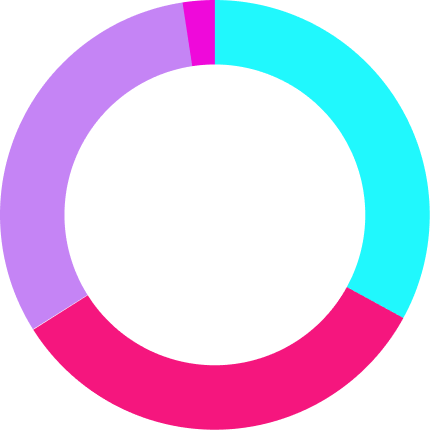
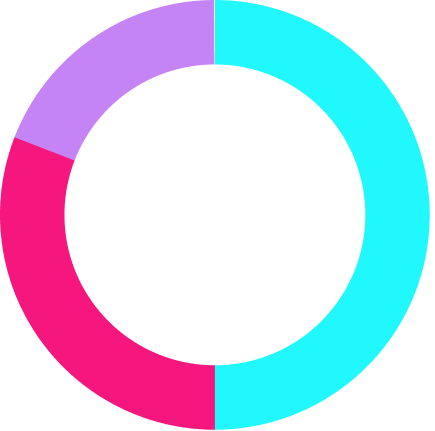
update

diff --git a/src/components/Home.js b/src/components/Home.js
@@ -15,6 +15,7 @@ import circle_2 from '../assets/circle_2.png';
 import circle_1 from '../assets/circle_1.png';
 import shibai from '../assets/shibai.png';
 import vector from '../assets/vector.svg';
+import token from '../assets/token.png';
 import Particle from './Particle';
 
 
@@ -255,12 +256,16 @@ export default function Home() {
                     <div className="lg:flex items-center justify-center gap-20 mt-12">
                         <div className='lg:w-1/2'>
 
-                            <svg xmlnsSvg="http://www.w3.org/2000/svg" xmlnsDoc="http://www.w3.org/1999/xlink"
+                            {/* <svg xmlns="http://www.w3.org/2000/svg"
                                 width="300px" height="400px" viewBox="0 0 130 130" >
 
-                                <circle class="crc1" transform="rotate(-90 70 70)" cx="70" cy="70" r="50"> </circle>
+                                <circle className="crc1" transform="rotate(-90 70 70)" cx="70" cy="70" r="50"> </circle>
+                                <circle className="crc2" transform="rotate(-45 70 70)" cx="70" cy="70" r="50"> </circle>
+                                <circle className="crc3" transform="rotate(45 70 70)" cx="70" cy="70" r="50"> </circle>
 
-                            </svg>
+                            </svg> */}
+
+                            <img src={token} alt="" className='crc1'/>
 
                         </div>
                         <div className='lg:w-1/2 lg:mt-0 mt-6'>

diff --git a/src/App.css b/src/App.css
@@ -58,23 +58,31 @@ line {
   fill: none;
   stroke: #20F8FD;
   stroke-width: 20;
-  stroke-dasharray: 400;
+  stroke-dasharray: 157;
   animation: dash 4s infinite;
 }
 
-@keyframes dash {
-  0% {
-    stroke-dasharray: 0 400
-  }
+.crc2 {
+  fill: none;
+  stroke: #F5167E;
+  stroke-width: 20;
+  stroke-dasharray: 78.5;
+  animation: dash_1 4s infinite;
+  animation-delay: 4s;
+}
 
-  50% {
-    stroke-dasharray: 200 200;
-    stroke: #F5167E;
-  }
 
-  100% {
-    stroke-dasharray: 400 400
-  }
+.crc1 {
+  animation: spinning-circle 10s infinite;
+}
+
+@keyframes spinning-circle {
+  0%,3%    {transform: rotate(0)}
+  22%,27%  {transform: rotate(-90deg)}
+  47%,52%  {transform: rotate(-180deg)}
+  72%,77%  {transform: rotate(-270deg)}
+  98%,100% {transform: rotate(-360deg)}
+  
 }
 
 @media only screen and (max-width: 768px) {
